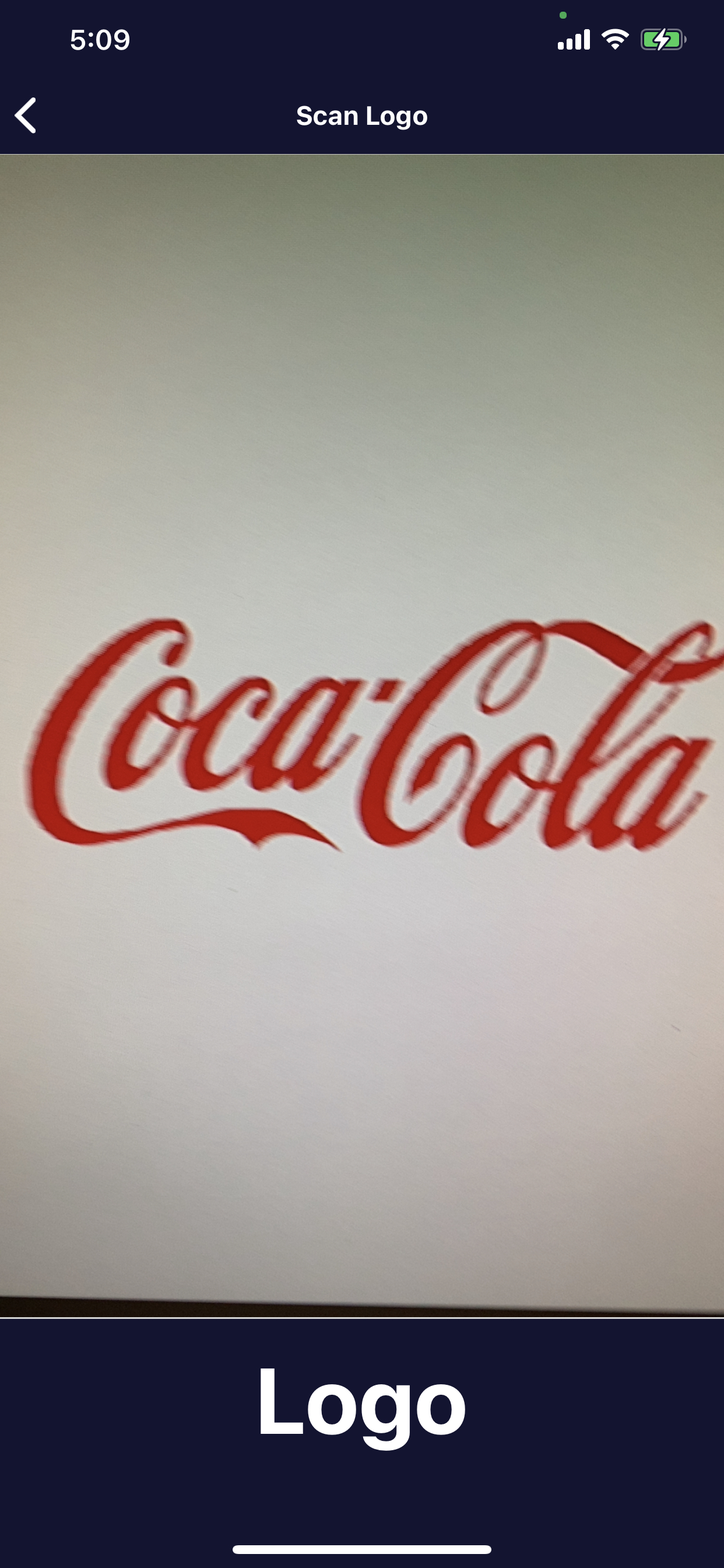
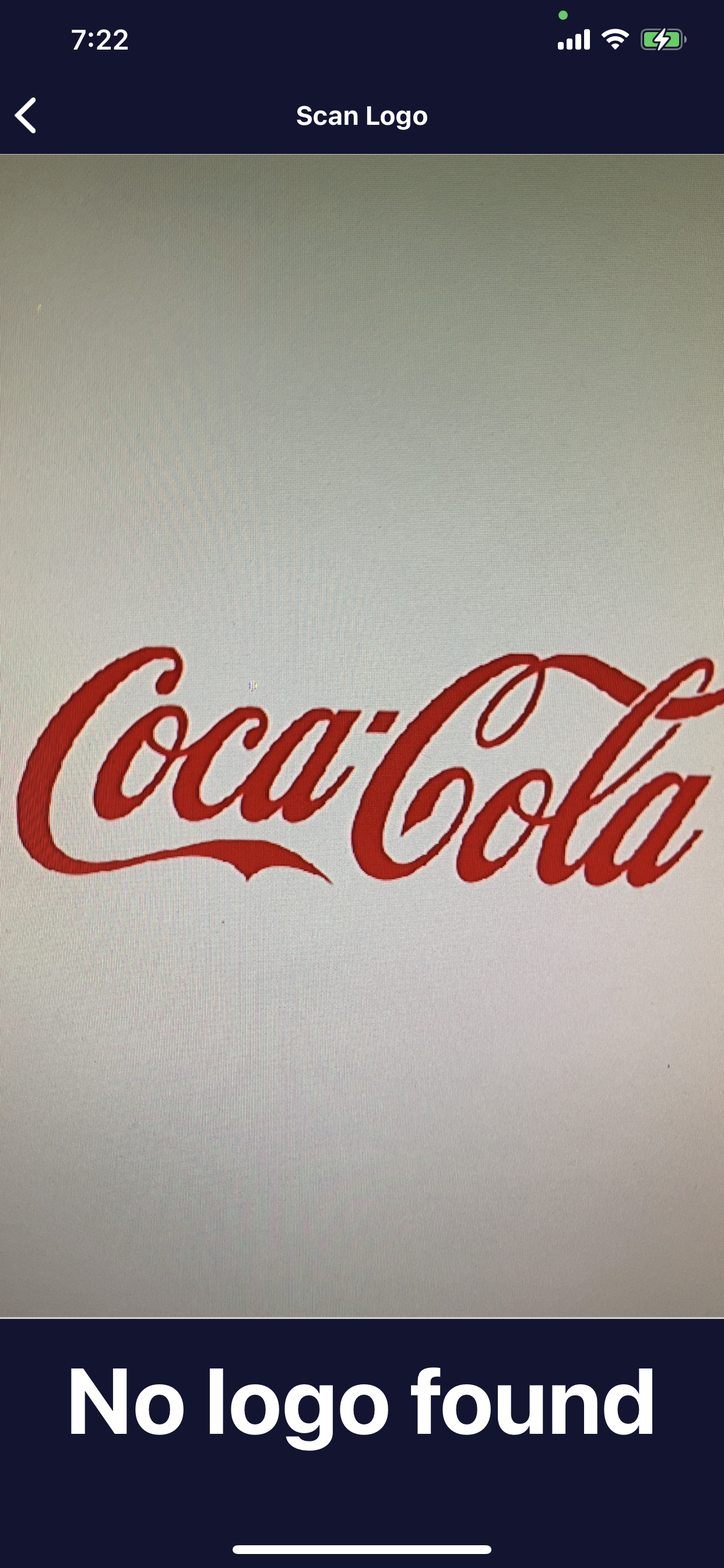
bridge text between swift and RN

diff --git a/ios/PassioSDKRN.swift b/ios/PassioSDKRN.swift
@@ -1,0 +1,103 @@
+//
+//  PassioSDK.swift
+//  passioapp
+//
+//  Created by Jaime Betancourt on 1/31/21.
+//
+
+import Foundation
+
+#if canImport(PassioSDK)
+import PassioSDK
+#endif
+
+@objc(PassioSDKRN) class PassioSDKRN: NSObject {
+  @objc func constantsToExport() -> [AnyHashable : Any]! {
+    return ["Logo": "No logo found"]
+  }
+}
+
+/*
+ class PassioQuickStartViewController: UIViewController {
+ 
+ //label and activity indicator
+ @IBOutlet weak var activityIndicator: UIActivityIndicatorView!
+ @IBOutlet weak var logoName: UILabel!
+ 
+ //sdk
+ let passioSDK = PassioSDK.shared
+ //allows you use to display video as it’s captured by an input device.
+ var previewLayer: AVCaptureVideoPreviewLayer?
+ 
+ let passioIDToName = ["LOG0002": "Coca Cola"]//,"LOG0001": "Starbuck" ]
+
+ override func viewDidLoad() {
+     super.viewDidLoad()
+     logoName.isHidden = true
+      //#error("please replace with the key from Passio")
+      passioSDK.configure(key: "ppGdJa8R0gizAGbhbvrVTtHIB44XH6SWSiuPfhgmlo") { (isReady) in
+         print("Passio isReady = \(isReady)")
+     }
+ }
+
+
+ //Check for permission
+ override func viewWillAppear(_ animated: Bool) {
+     super.viewWillAppear(animated)
+     if AVCaptureDevice.authorizationStatus(for: .video) == .authorized {
+         startDetection()
+     } else {
+         AVCaptureDevice.requestAccess(for: .video) { (granted) in
+             if granted {
+                 DispatchQueue.main.async {
+                     self.startDetection()
+                 }
+             } else {
+                 print("The user didn't grant access to use camera")
+             }
+         }
+     }
+ }
+
+ func startDetection() {
+     setupPreviewLayer()
+     passioSDK.startCustomObjectDetection(modelName: "passio_developerlogodemo_SSD", customDetectionDelegate: self) { (ready) in
+     
+     }
+ }
+
+ func setupPreviewLayer() {
+     guard previewLayer == nil else { return }
+     if let previewLayer = passioSDK.getPreviewLayer() {
+         self.previewLayer = previewLayer
+         previewLayer.videoGravity = AVLayerVideoGravity.resizeAspectFill
+         previewLayer.frame = view.frame
+         view.layer.insertSublayer(previewLayer, at: 0)
+     }
+ }
+
+ override func viewWillDisappear(_ animated: Bool) {
+     super.viewWillDisappear(animated)
+     //passioSDK.stopFoodDetection()
+     previewLayer?.removeFromSuperlayer()
+     previewLayer = nil
+ }
+
+}
+
+
+
+extension PassioQuickStartViewController: CustomDetectionDelegate {
+ 
+ func customDetectionResult(odCandidates: [CustomObjectDetectionCandidate]?, hnnCandidates: [CustomClassificationCandidate]?, classCandidates: [CustomClassificationCandidate]?, image: UIImage?) {
+     var logoName = "No logo found"
+     if let candidate = odCandidates?.first {
+         logoName = passioIDToName[candidate.label] ?? candidate.passioID
+     }
+     DispatchQueue.main.async {
+         self.logoName.isHidden = false
+         self.logoName.text = logoName
+     }
+ }
+}
+ */

diff --git a/src/screens/Camera.js b/src/screens/Camera.js
@@ -1,5 +1,11 @@
 import React from 'react';
-import {StyleSheet, View, Text, SafeAreaView} from 'react-native';
+import {
+  StyleSheet,
+  View,
+  Text,
+  SafeAreaView,
+  NativeModules,
+} from 'react-native';
 
 import {RNCamera} from 'react-native-camera';
 
@@ -24,6 +30,7 @@ const styles = StyleSheet.create({
 });
 
 function Home() {
+  console.log(NativeModules.PassioSDKRN.Logo);
   return (
     <SafeAreaView style={{flex: 1, backgroundColor: '#131432'}}>
       <View style={styles.container}>
@@ -35,7 +42,7 @@ function Home() {
           captureAudio={false}
         />
         <View style={styles.logoContainer}>
-          <Text style={styles.logoText}>Logo</Text>
+          <Text style={styles.logoText}>{NativeModules.PassioSDKRN.Logo}</Text>
         </View>
       </View>
     </SafeAreaView>

diff --git a/ios/PassioSDKRN.m b/ios/PassioSDKRN.m
@@ -1,0 +1,13 @@
+//
+//  PassioSDKRN.m
+//  passioapp
+//
+//  Created by Jaime Betancourt on 1/31/21.
+//
+
+#import <Foundation/Foundation.h>
+#import "React/RCTBridgeModule.h"
+
+@interface RCT_EXTERN_MODULE(PassioSDKRN, NSObject)
++ (BOOL)requiresMainQueueSetup { return YES; }
+@end

diff --git a/ios/passioapp-Bridging-Header.h b/ios/passioapp-Bridging-Header.h
@@ -1,0 +1,5 @@
+//
+//  Use this file to import your target's public headers that you would like to expose to Swift.
+//
+
+#import "React/RCTBridgeModule.h"

diff --git a/README.md b/README.md
@@ -6,7 +6,7 @@ This is a simple RN application that uses native module to detect logos.
 
 Clone the repo and run `npm install`
 
-Open Xcode and add a development team.
+Open `passioapp.xcworkspace` located in the ios folder with Xcode and add a development team.
 
 If the following error occurs:
 
@@ -18,7 +18,7 @@ In the build settings, under Build Options, set Validate Workspace to Yes.
 
 ## Todo
 
-Connect RN to the native module.
+Currently the application is not integrated with the Passio SDK. Will need to do further research into how to bridge Swift and React Native.
 
 ## Screenshots
 
